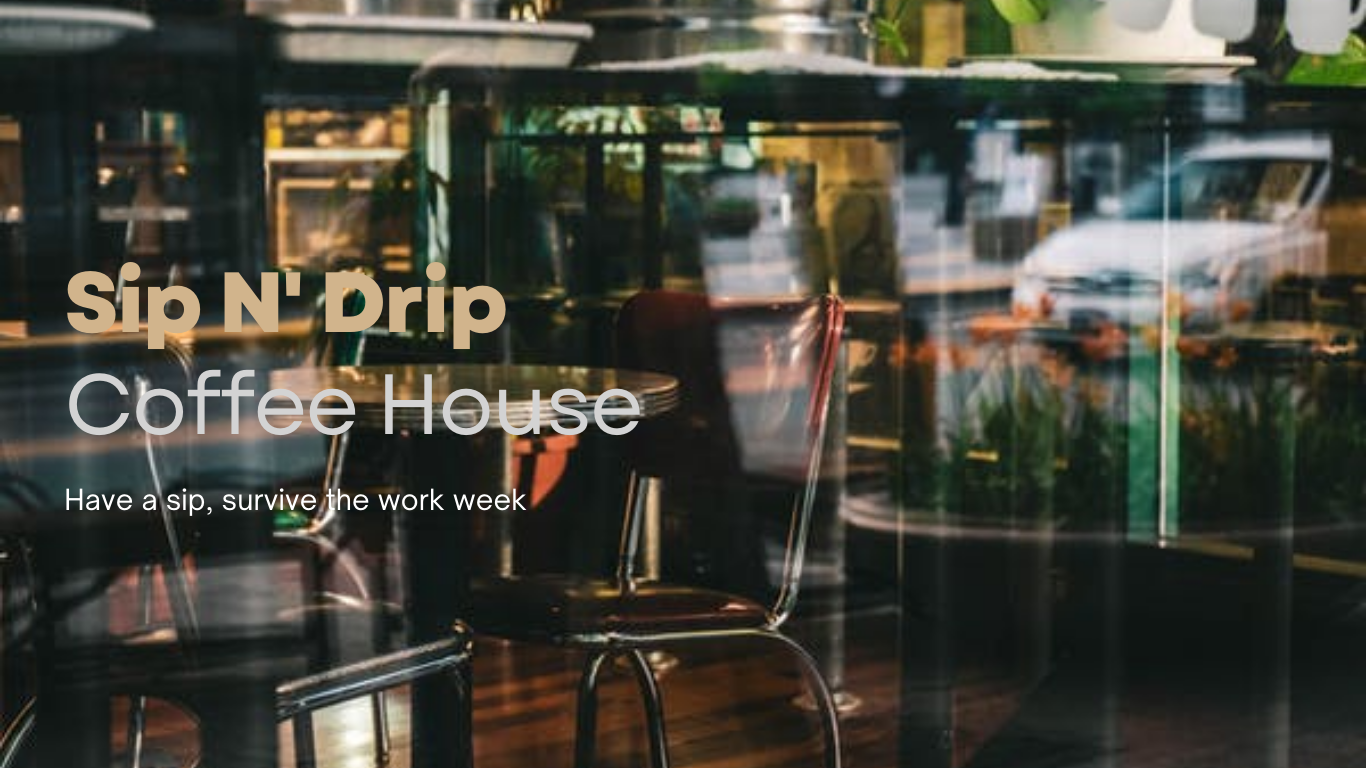
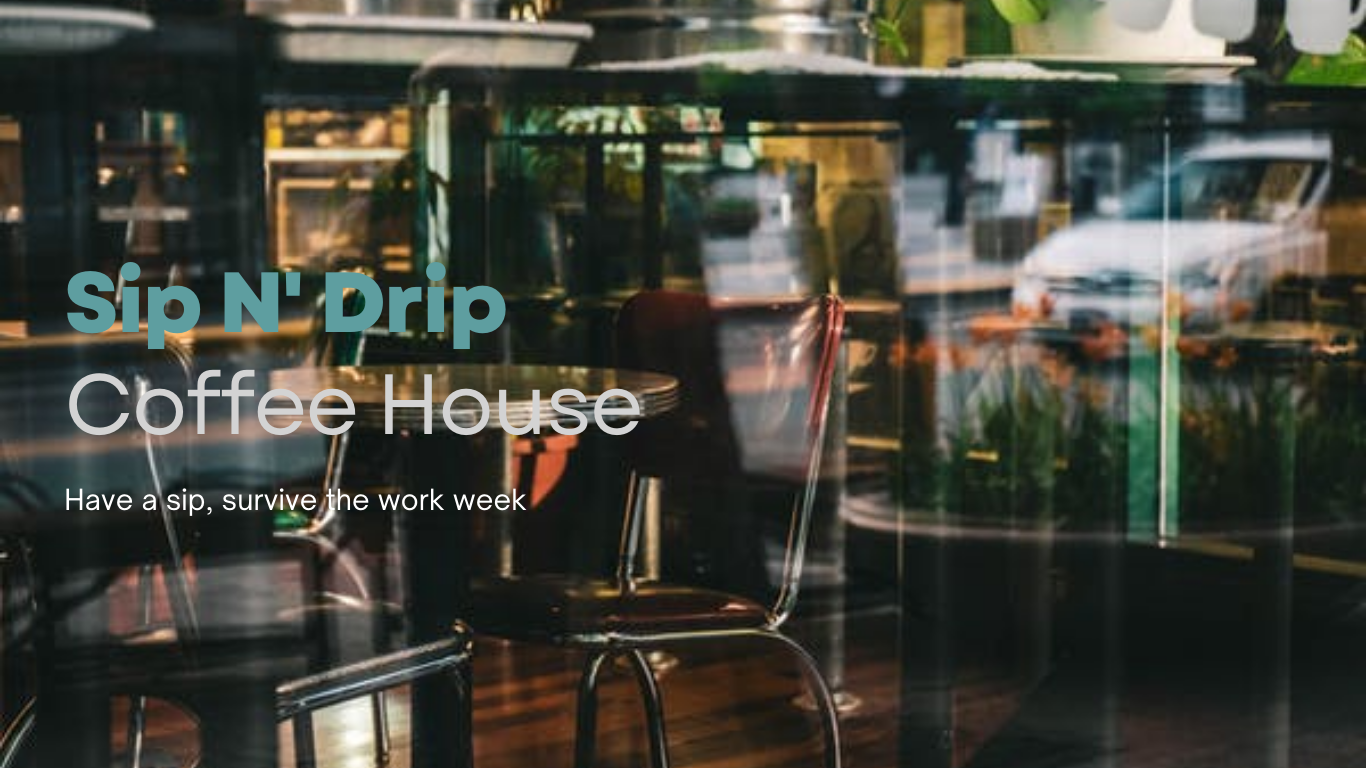
updated home page section

Changed region(s): [[0.0307, 0.3438, 0.369, 0.4688]]

diff --git a/index.html b/index.html
@@ -33,10 +33,10 @@
                                 <a class="nav-link" href="#">MENU</a>
                             </li>
                             <li class="nav-item">
-                                <a class="nav-link" href="#">ABOUT US</a>
+                                <a class="nav-link" href="#">NEWS</a>
                             </li>
                             <li class="nav-item">
-                                <a class="nav-link" href="#">CONTACT</a>
+                                <a class="nav-link" href="#">LOCATION</a>
                             </li>
                         </ul>
                     </div>
@@ -66,7 +66,7 @@
     <section class="bg-row">
         <div class="container-fluid">
             <div class="col-lg-12 ms-5 me-5 p-3">
-                <h3 class="text-color mt-3">
+                <h3 class="text-card mt-3">
                     We're not your average coffee house.
                 </h3>
                 <p>See what makes us different.</p>
@@ -110,10 +110,59 @@
             </div>
         </div>
     </section>
-    <div class="bg-text text-center p-5 m-5">
-        <h3>Coffee makes our lives brighter.
-            We're here to make your coffee experience better.</h3>
+    <section class="section d-flex justify-content-center align-items-center">
+        <div class="container-fluid">
+            <div class="col-lg-12">
+                <h3 class="display-3 text-center text-white mt-5">Coffee makes our lives brighter.
+                    We're here to make your coffee experience better. </h3>
+            </div>
+        </div>
+    </section>
+    <div class="row">
+        <div class="col-lg-4">
+            <img class="img-fluid d-none d-lg-block d-print-block w-90 pt-5" style="height: 100vh;"
+                src="images/mask.jpg" alt="people with mask">
+        </div>
+        <div class="col-lg-8 text-start p-5 mt-3">
+            <h6 class="text display-6 mb-3">For our safety, we must keep our masks on.
+            </h6>
+            <p>We live in troubled times. As such, we kindly ask our dear customers to keep their masks on while
+                ordering for their safety and security.</p>
+            <br><br><br>
+            <h6 class="social-text">Other Social Distancing FAQs</h6>
+            <p class="social-text mt-3">Can we still visit the coffee house? <br>
+               <small>Yes! We are open from 7 AM to 7 PM.</small>
+                <br><br>
+                Are you open on weekends?<br>
+                <small>Yes! On weekends, we are open from 9 AM to 9 PM.</small>
+            </p>
+        </div>
     </div>
+        <!-- FOOTER -->
+        <div class="row bg-row p-5 d-flex justify-content-center">
+            <div class="col-lg-2">
+                <ul class="nav flex-column">
+                    <li class="nav-item">
+                      <a class="nav-link" href="#">IN-STORE MENU</a>
+                    </li>
+                    <li class="nav-item">
+                      <a class="nav-link" href="#">STORE LOCATOR</a>
+                    </li>
+                    <li class="nav-item">
+                      <a class="nav-link" href="#">FRANCHISING</a>
+                    </li>
+                    <li class="nav-item">
+                      <a class="nav-link" href="#">CONTACT US</a>
+                    </li>
+                    <li class="nav-item">
+                        <a class="nav-link" href="#">PRIVACY POLICY</a>
+                    </li>
+                </ul>
+            </div>
+            <div class="col-lg-6">
+                <h3 class="d-flex justify-content-center mt-5">SIGN-UP FOR UPDATES</h3>
+            </div>
+        </div>
     <script src="https://cdn.jsdelivr.net/npm/bootstrap@5.2.2/dist/js/bootstrap.bundle.min.js"
         integrity="sha384-OERcA2EqjJCMA+/3y+gxIOqMEjwtxJY7qPCqsdltbNJuaOe923+mo//f6V8Qbsw3"
         crossorigin="anonymous"></script>

diff --git a/style.css b/style.css
@@ -1,7 +1,7 @@
 .nav-link {
     color: white;
     font-size: 18px;
-    font-weight: 500;
+    font-weight: 200;
     font-family: 'Gill Sans', 'Gill Sans MT', Calibri, 'Trebuchet MS', sans-serif;
     margin-left: 5px;
 }
@@ -21,7 +21,7 @@ header {
     background-color: #2F4F4E;
     color: white;
 }
-.text-color {
+.text-card {
     font-family: Arial, Helvetica, sans-serif;
     font-weight: 200;
 }
@@ -40,9 +40,27 @@ header {
     background-color: #2F4F4E;
   color: white;
 }
-.bg-text {
-    background-image: url('images/bg-text.jpg');
+.section {
+    background-image: url('images/section_4.png');
+    height: 100vh;
     background-size: cover;
     background-position: center center;
-    height: 100vh;
+    background-repeat: no-repeat;
+}
+.social-text {
+    color: #264A4D;
+}
+small {
+    font-weight: bold;
+    font-size: 16px;
+}
+.bg-footer {
+    background-color: #d3d3d3;
+}
+.list-group {
+    color: #0E191D;
+    font-size: 18px;
+    font-weight: 200;
+    font-family: Arial, Helvetica, sans-serif;
+    margin-left: 5px;
 }
